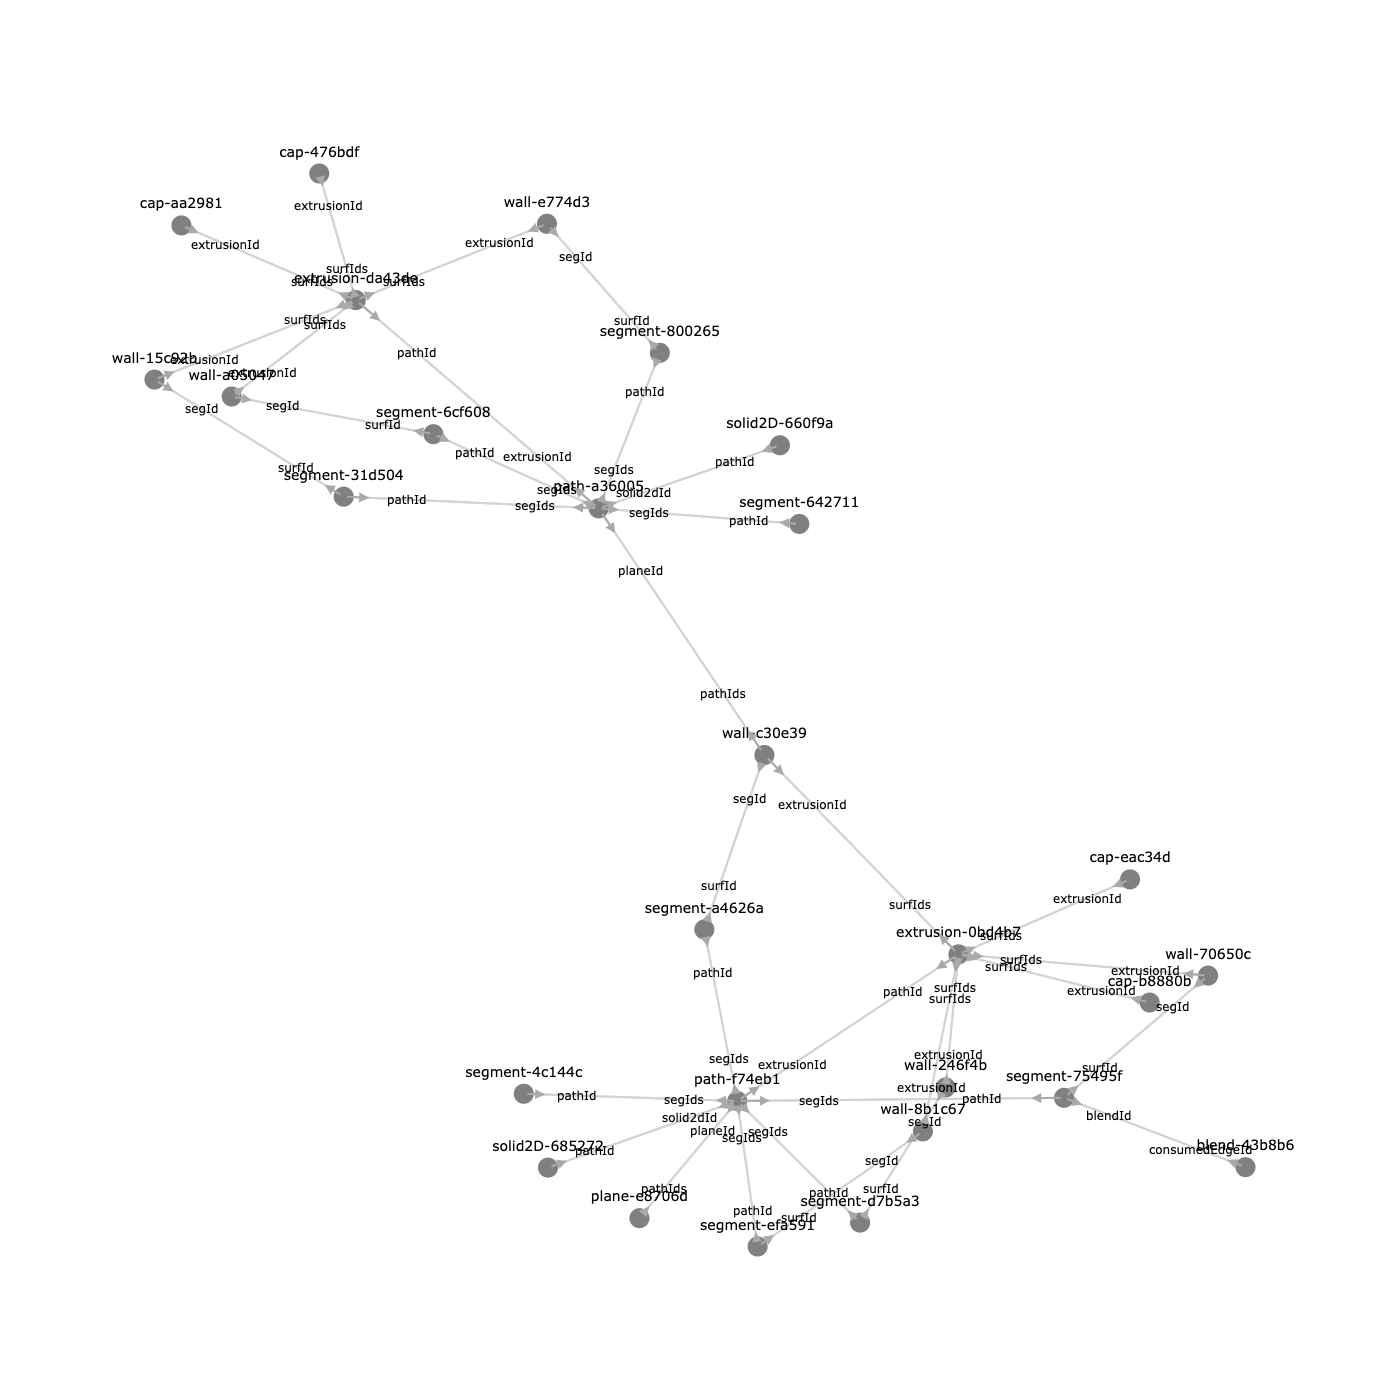
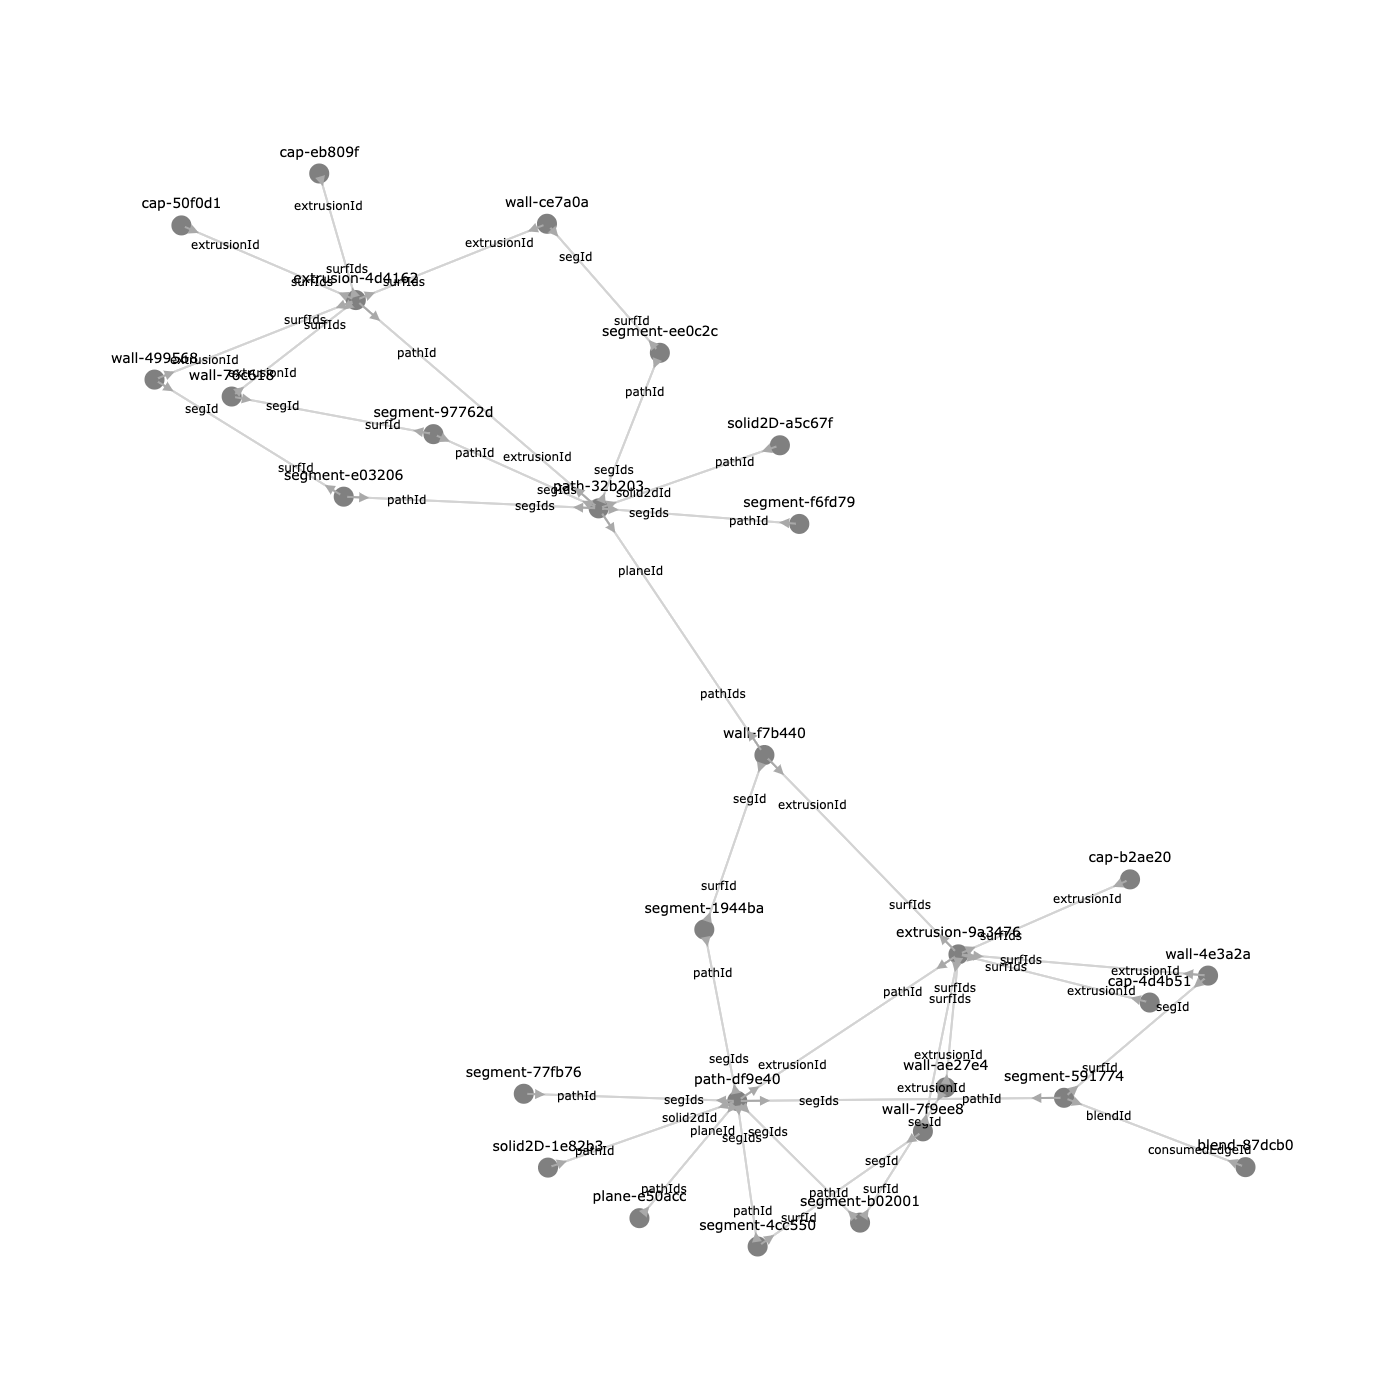
fix snapshots

diff --git a/src/lang/std/artifactMap.test.ts b/src/lang/std/artifactMap.test.ts
@@ -214,7 +214,29 @@ describe('testing createArtifactMap', () => {
     })
 
     it('snapshot of the artifactMap', () => {
-      expect(theMap).toMatchSnapshot()
+      const stableMap = new Map(
+        [...theMap].map(([, artifact], index): [string, any] => {
+          const stableValue: any = {}
+          Object.entries(artifact).forEach(([propName, value]) => {
+            if (
+              propName === 'type' ||
+              propName === 'codeRef' ||
+              propName === 'subType'
+            ) {
+              stableValue[propName] = value
+              return
+            }
+            if (Array.isArray(value))
+              stableValue[propName] = value.map(() => 'UUID')
+            if (typeof value === 'string' && value) stableValue[propName] = 'UUID'
+          })
+          return [
+            `UUID-${index}`,
+            stableValue,
+          ]
+        })
+      )
+      expect(stableMap).toMatchSnapshot()
     })
 
     it('screenshot graph', async () => {
